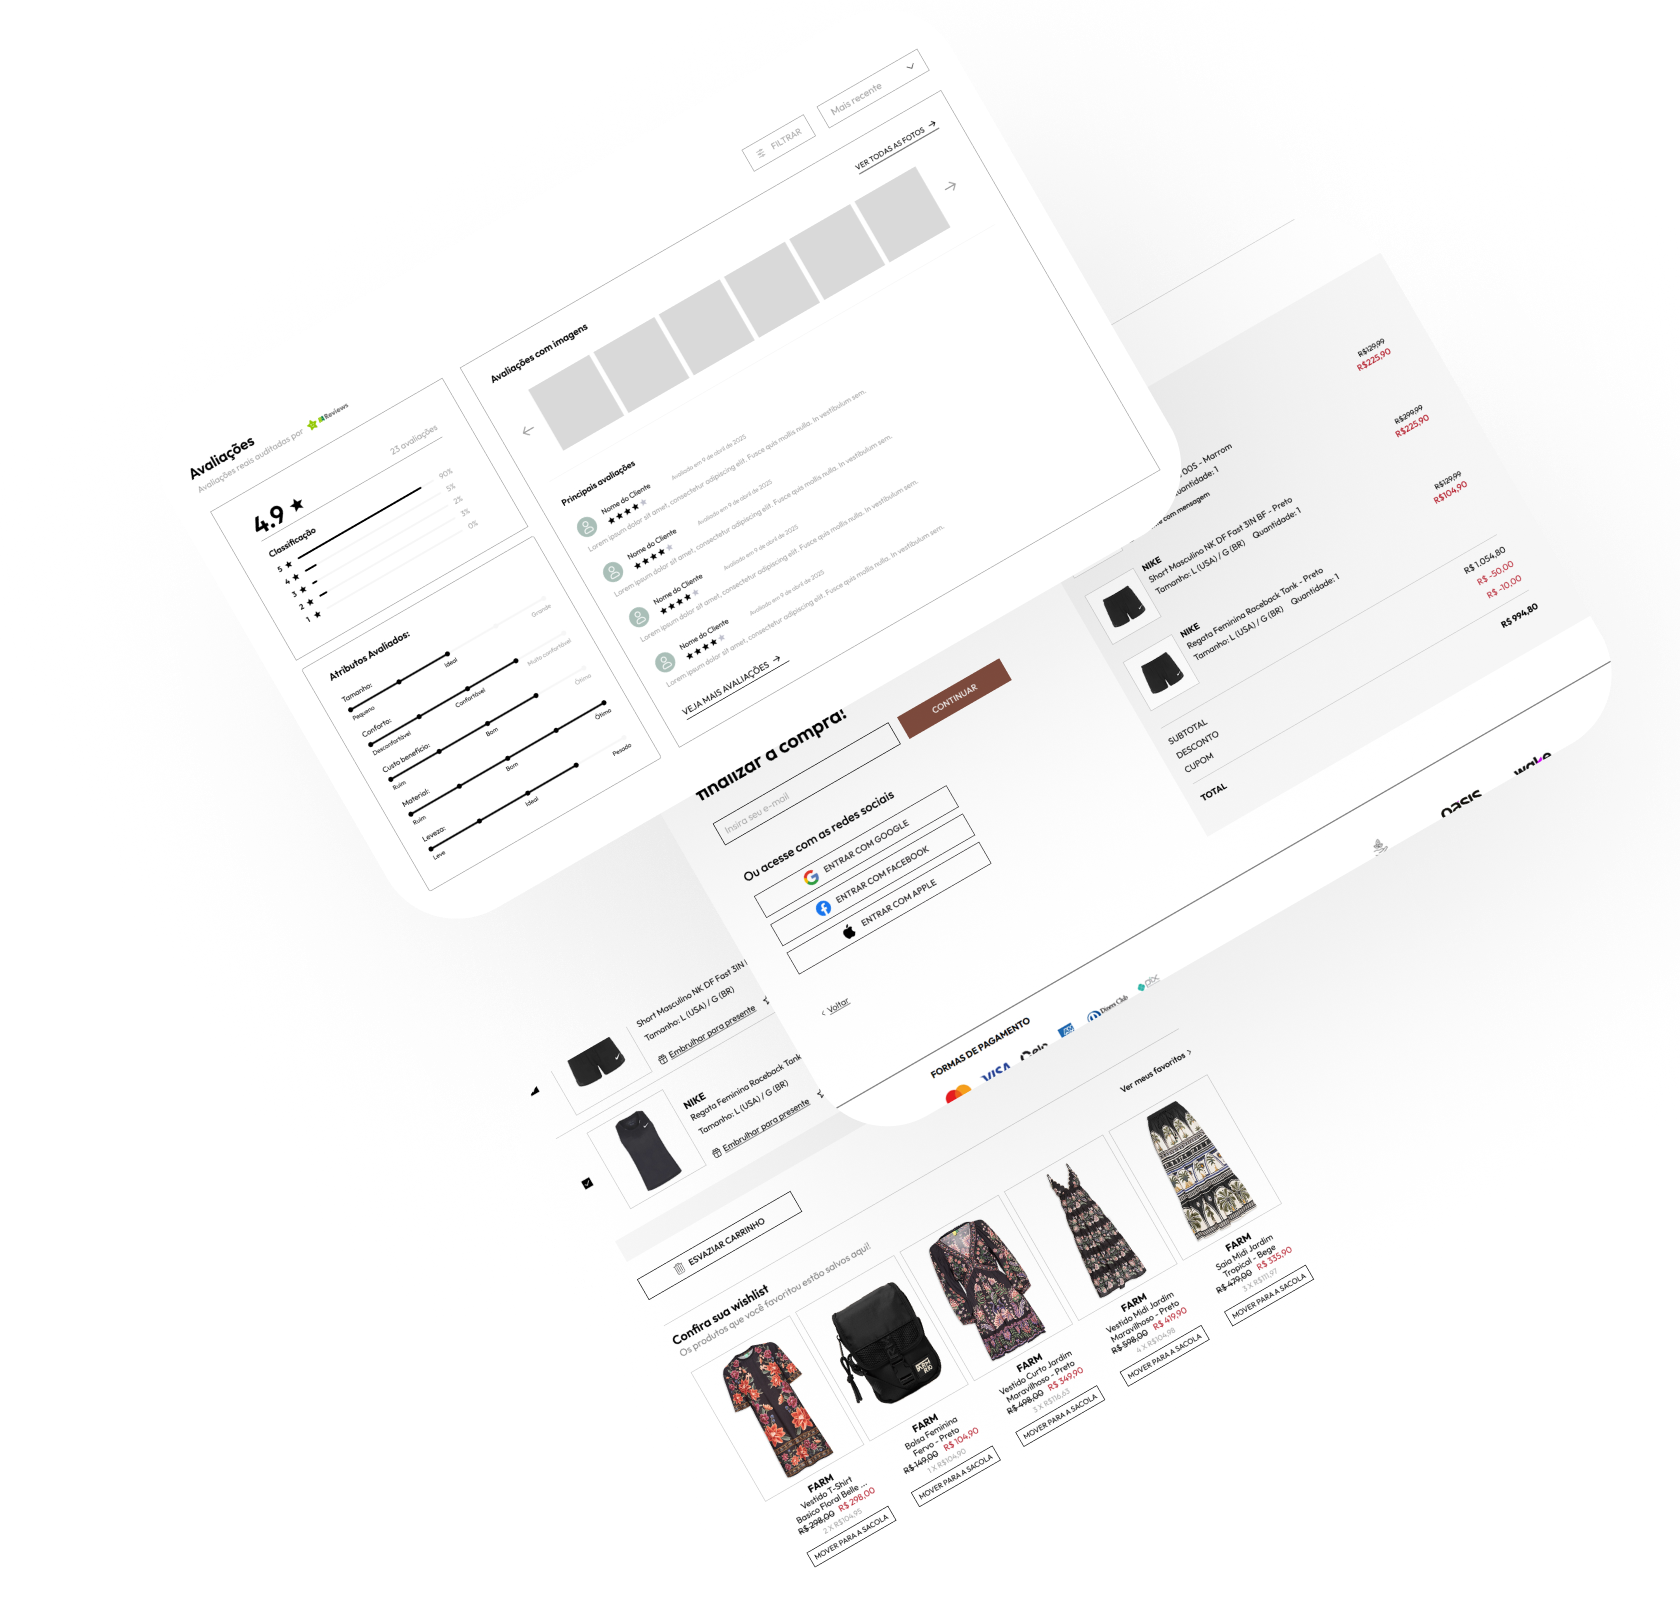
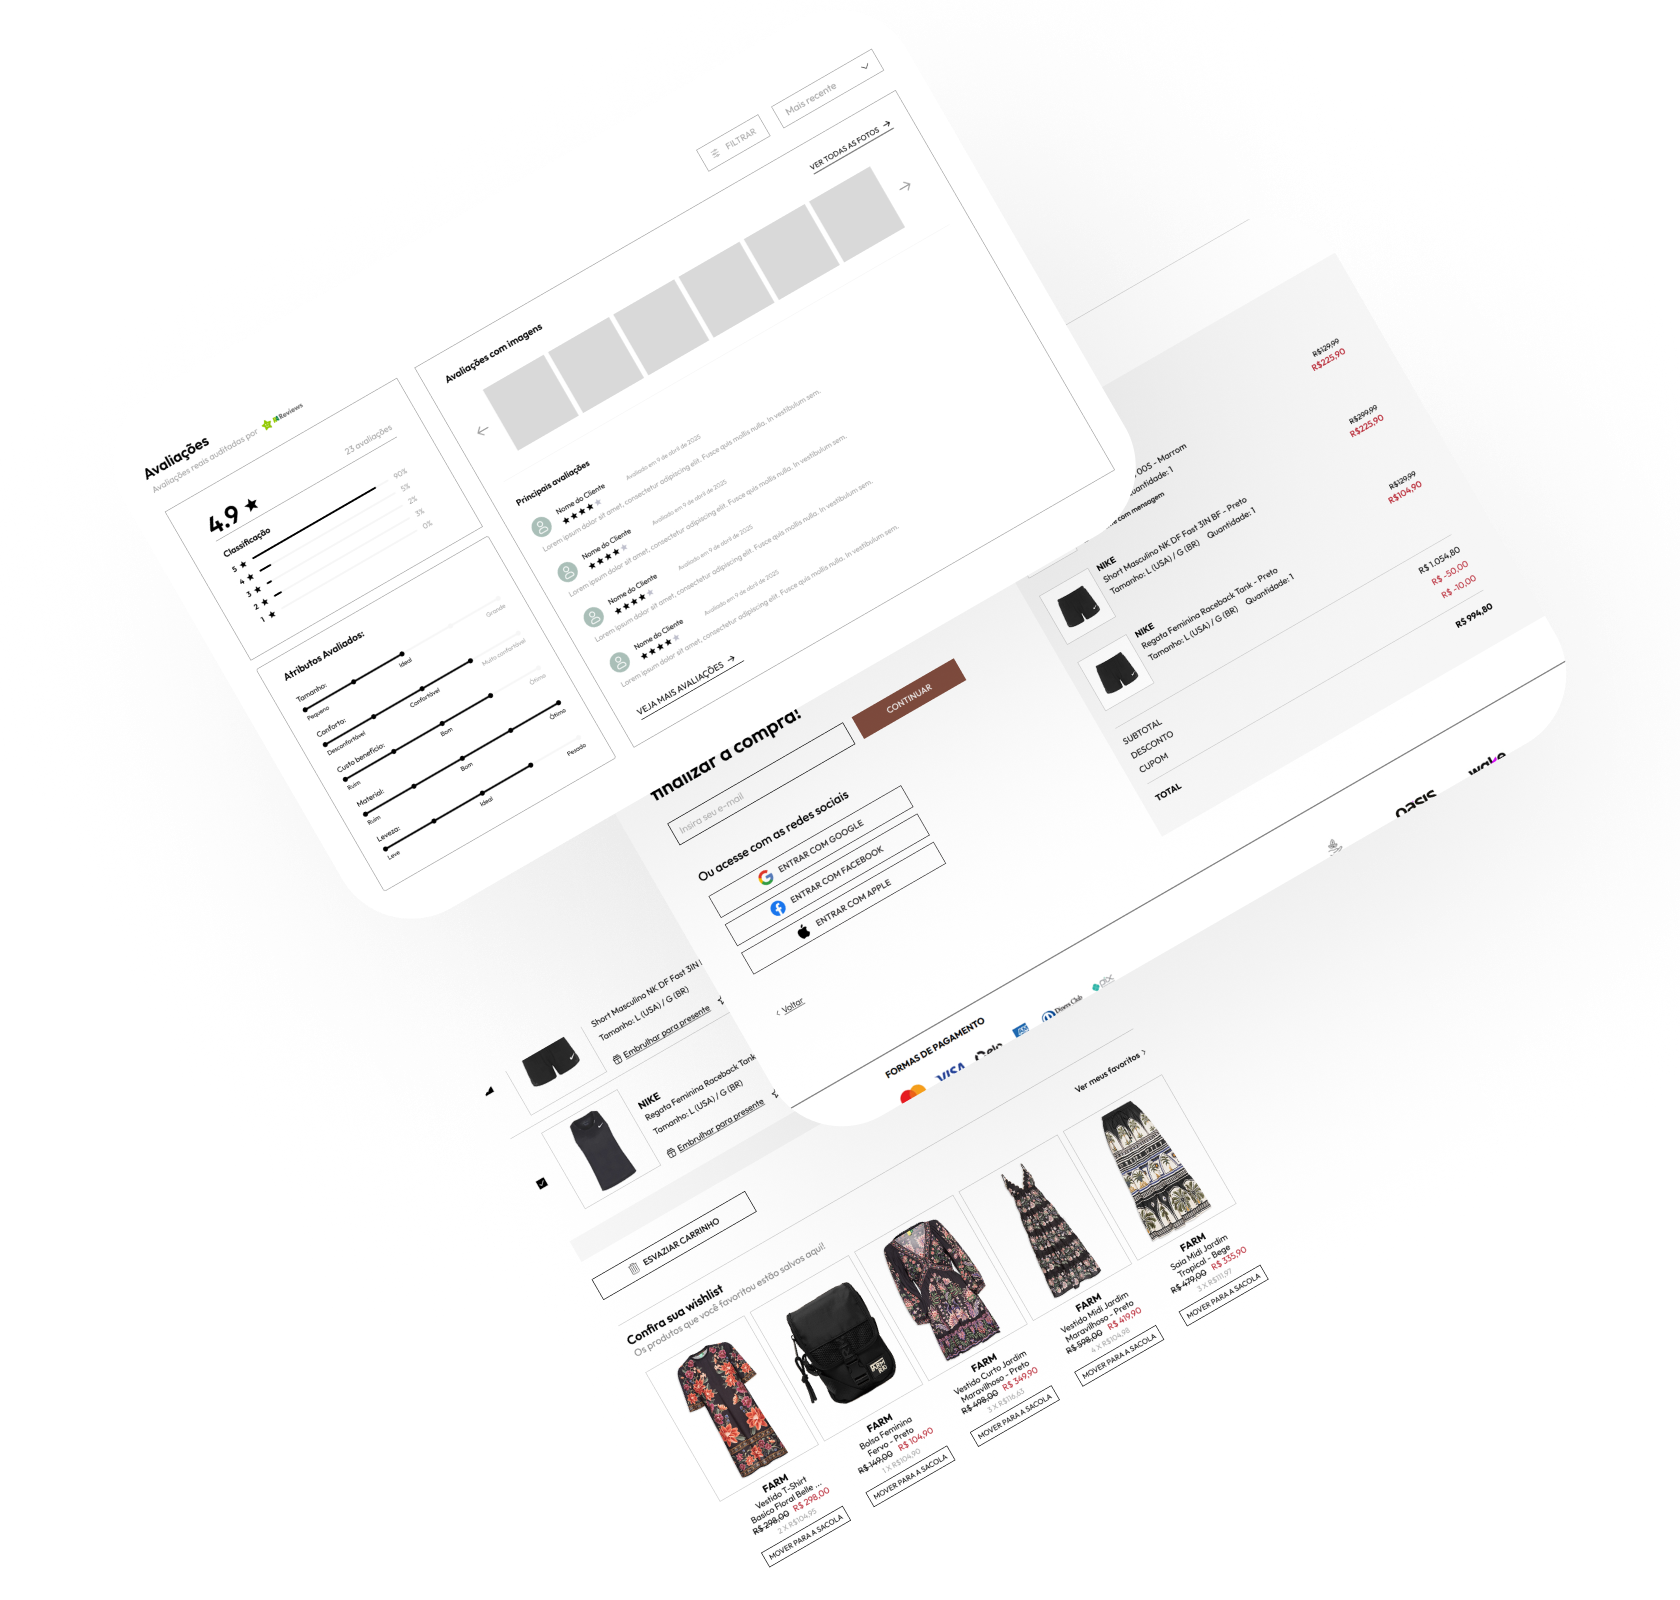
feat: responsive cases

diff --git a/src/components/ProjectCard/ProjectCard.tsx b/src/components/ProjectCard/ProjectCard.tsx
@@ -11,12 +11,12 @@ export default function ProjectCard({ project, index }: ProjectCardProps) {
     const isEven = index % 2 === 0;
 
     return (
-        <div className={`w-full flex items-center gap-22 py-20 px-16 justify-between lg:justify-center font-sans text-sm font-light text-foreground ${ isEven ? "flex-row" : "flex-row-reverse" }`}>
-            <div className="flex flex-col gap-5 max-w-lg 2xl:max-w-2xl">
+        <div className={`w-full flex flex-col md:flex-row items-center gap-8 lg:gap-12 py-16 px-4 md:py-12 lg:py-20 1720:px-16 justify-between xl:justify-center font-sans text-xs lg:text-sm font-light text-foreground ${ isEven ? "md:pl-8 md:pr-0 xl:pl-16" : "md:flex-row-reverse md:pr-8 md:pl-0 xl:pr-16" }`}>
+            <div className="flex flex-col gap-3 lg:gap-5 md:max-w-sm lg:max-w-xl xl:max-w-lg 2xl:max-w-lg">
                 <div className="project-heading">
-                    <div className="flex item justify-start gap-4 mb-4">
+                    <div className="flex item justify-start gap-2 md:gap-4 mb-4">
                         { project.tags.map((tag, index) => (
-                            <div key={index} className="px-4 py-1 bg-surface-gray text-text-gray-200 text-xs rounded-4xl">{tag}</div>
+                            <div key={index} className="px-2 lg:px-4 py-1 bg-surface-gray text-text-gray-200 text-xs rounded-4xl">{tag}</div>
                         ))}
                     </div>
                     <Image
@@ -25,7 +25,7 @@ export default function ProjectCard({ project, index }: ProjectCardProps) {
                         width={project.logo.width}
                         height={project.logo.height}
                     />
-                    <div className="flex gap-2 mt-5">
+                    <div className="flex gap-2 mt-3 lg:mt-5">
                         <div className="w-0.5 bg-light-blue"></div>
                         <p>{project.credits}</p>
                     </div>
@@ -62,15 +62,14 @@ export default function ProjectCard({ project, index }: ProjectCardProps) {
                     <p>{project.handoff?.content}</p>
                 </div>
             </div>
-            <div className="project-image">
-                <div className="project-gallery">
-                    <Image
-                        src={project.image}
-                        alt={project.title}
-                        width={840}
-                        height={800}
-                    />
-                </div>
+            <div className="project-image overflow-hidden">
+                <Image
+                    src={project.image}
+                    alt={project.title}
+                    width={840}
+                    height={800}
+                    className={isEven ? "max-w-none w-110 sm:w-150 md:w-165 lg:w-200 xl:w-225 2xl:w-300" : "max-w-none w-110 ml-1 sm:w-150 md:w-150 md:-translate-x-19"}
+                />
             </div>
         </div>
     );

diff --git a/src/app/globals.css b/src/app/globals.css
@@ -19,6 +19,8 @@
   
   --font-sans: var(--font-space-grotesk);
   --font-heading: var(--font-lexend);
+
+  --breakpoint-1720: 107.5rem;
 }
 
 body {